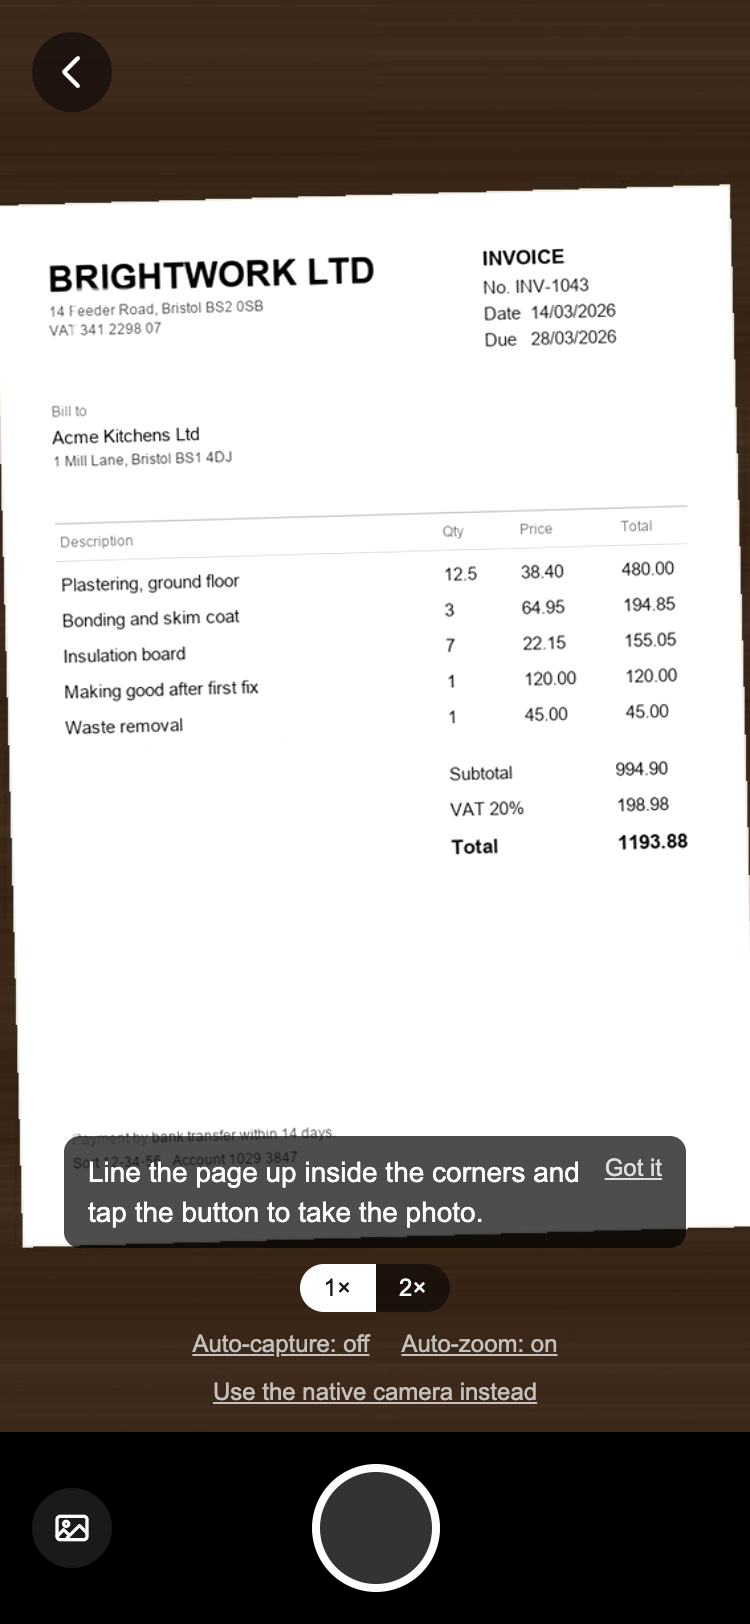
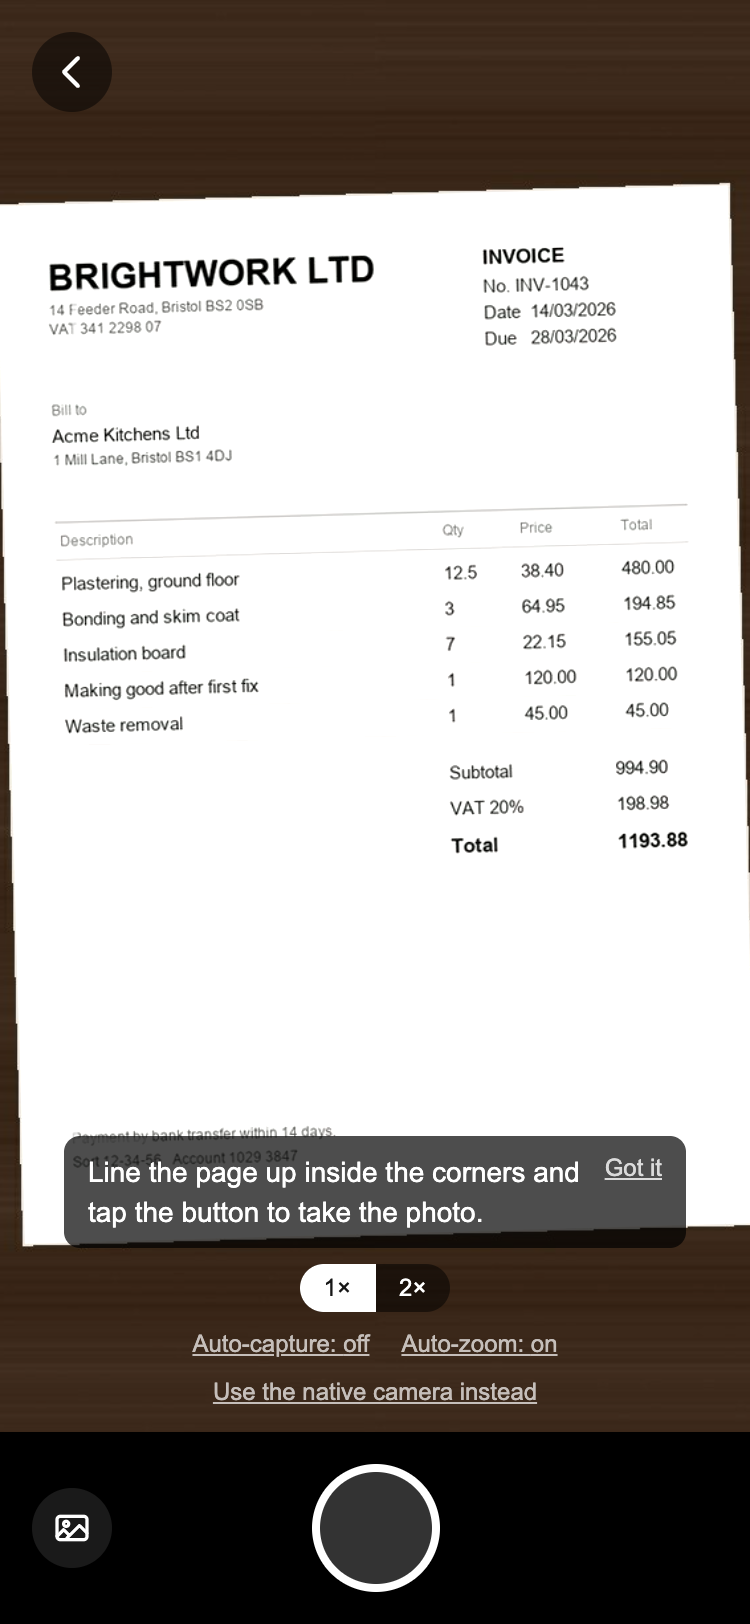
A suite that had been testing a frozen copy of the app
Chasing the last two lows turned up something worse than either of them.

test-check-company starts its own Next server (it needs a Companies House
key and a stand-in API), and its WEB pointed at
.claude/worktrees/check-company/web -- the branch the feature was written
on. It had been testing a frozen copy ever since that branch merged: green
whatever changed in main, and broken outright the day those worktrees are
deleted, which is on the list of things to do. I only found it because a
fix I had just made kept not taking effect. test-quote-requests imported
from a worktree the same way. Both now point at web/.

The two lows themselves:

/check-company told a visitor "Too many checks from this connection in the
last hour" when Companies House was simply down -- a statement about
someone who had just arrived on a shared link and checked nothing, and the
wrong advice, since trying again in a minute is exactly what works. The
route now separates 429 (busy) from 503 (unavailable) and the page says
"Companies House isn't answering just now." The stand-in API grew a
reserved number that always 500s, so a suite can tell the two apart.

And the price guide was kept when the line under it changed, so a verdict
fetched for "Plasterboard 12.5mm" went on sitting above a line now reading
something else. The guide is now held with the line and price it was
fetched for and derived during render -- not cleared in an effect, which
eslint rightly refuses.

diff --git a/web/src/components/check-company/CompanyChecker.tsx b/web/src/components/check-company/CompanyChecker.tsx
@@ -9,9 +9,12 @@ const PRIMARY = "rounded-lg bg-neutral-900 px-4 py-2 text-sm font-medium text-wh
 const SECONDARY = "rounded-lg border px-3 py-2 text-sm font-medium text-neutral-700";
 
 const BUSY = "Too many checks from this connection in the last hour. Try again later, or look the company up at Companies House.";
+// Said when the register itself can't be reached, rather than blaming the
+// person who has just arrived on a shared link and checked nothing.
+const UNAVAILABLE = "Companies House isn't answering just now. Try again in a minute, or look the company up at Companies House.";
 const OFF = "Couldn't reach the register just now. Try again in a minute, or look the company up at Companies House.";
 
-type Answer = { configured?: boolean; items?: CompanyHit[]; report?: CompanyReport; busy?: boolean; found?: boolean };
+type Answer = { configured?: boolean; items?: CompanyHit[]; report?: CompanyReport; busy?: boolean; unavailable?: boolean; found?: boolean };
 
 export default function CompanyChecker() {
   const [configured, setConfigured] = useState<boolean | null>(null);
@@ -37,6 +40,7 @@ export default function CompanyChecker() {
       const body = await ask(`?q=${encodeURIComponent(q)}`);
       setLoading(false);
       if (!body) return setError(OFF);
+      if (body.unavailable) return setError(UNAVAILABLE);
       if (body.busy) return setError(BUSY);
       if (!body.items) {
         if (body.configured !== false) setError(OFF);
@@ -56,6 +60,7 @@ export default function CompanyChecker() {
       const body = await ask(`?number=${encodeURIComponent(number)}`);
       setLoading(false);
       if (!body) return setError(OFF);
+      if (body.unavailable) return setError(UNAVAILABLE);
       if (body.busy) return setError(BUSY);
       if (body.report) {
         setHits(null);
@@ -83,6 +88,7 @@ export default function CompanyChecker() {
         if (!number) return;
         setQuery(number);
         if (body.report) setReport(body.report);
+        else if (body.unavailable) setError(UNAVAILABLE);
         else if (body.busy) setError(BUSY);
         else if (body.found === false) setError("No company on the register has that number.");
       })

diff --git a/web/src/components/PriceFinder.tsx b/web/src/components/PriceFinder.tsx
@@ -24,9 +24,16 @@ export default function PriceFinder({ description, quantity, unit, priced, onClo
 }) {
   const [kind, setKind] = useState<PriceKind>(() => priceKindOf(description, unit ?? ""));
   const [want, setWant] = useState("");
-  const [guide, setGuide] = useState<PriceGuide | null>(null);
+  // Kept with the line it was fetched for. The panel stays open while
+  // that line is edited, so a guide for "Plasterboard 12.5mm" would go on
+  // sitting above a line now reading something else, with a verdict
+  // ("above the usual range") about a price it was never asked about.
+  const [fetched, setFetched] = useState<{ for: string; guide: PriceGuide } | null>(null);
   const [loading, setLoading] = useState(false);
   const [error, setError] = useState<string | null>(null);
+
+  const askedFor = `${description}\u0000${priced ?? ""}`;
+  const guide = fetched?.for === askedFor ? fetched.guide : null;
 
   const places = searchPlaces(description, kind, want);
 
@@ -42,7 +49,7 @@ export default function PriceFinder({ description, quantity, unit, priced, onClo
       });
       const body = (await res.json().catch(() => ({}))) as { guide?: PriceGuide; error?: string };
       if (!res.ok || !body.guide) throw new Error(body.error || "Couldn't work out a price guide.");
-      setGuide(body.guide);
+      setFetched({ for: askedFor, guide: body.guide });
     } catch (err) {
       setError(errorText(err, "Couldn't work out a price guide."));
     } finally {
@@ -94,7 +101,7 @@ export default function PriceFinder({ description, quantity, unit, priced, onClo
             aria-checked={kind === k}
             onClick={() => {
               setKind(k);
-              setGuide(null);
+              setFetched(null);
             }}
             className={`rounded-md py-1.5 text-sm font-medium ${kind === k ? "bg-white text-neutral-900 shadow-sm" : "text-neutral-600"}`}
           >

diff --git a/web/src/app/api/company-check/route.ts b/web/src/app/api/company-check/route.ts
@@ -42,7 +42,14 @@ async function ask<T>(path: string, key: string): Promise<Fetched<T>> {
   return body ? { ok: true, body } : { ok: false, status: 502 };
 }
 
-const busy = (status: number) => NextResponse.json({ configured: true, busy: true }, { status: status === 429 ? 429 : 503 });
+// A rate limit and an unreachable register are different things to be
+// told: "too many checks from this connection" is a statement about the
+// visitor, and when Companies House is simply down it is both false and
+// the wrong advice -- trying again in a minute is exactly what works.
+const busy = (status: number) =>
+  status === 429
+    ? NextResponse.json({ configured: true, busy: true }, { status: 429 })
+    : NextResponse.json({ configured: true, unavailable: true }, { status: 503 });
 
 async function search(q: string, req: Request, key: string) {
   const cacheKey = q.toLowerCase();

diff --git a/notes/backlog.md b/notes/backlog.md
@@ -63,6 +63,9 @@ the same day (23 bugs). Review three's 11 were still open when this file was wri
   for the same hour. `mockdb.mjs` now exports `todayISO()` / `day(n)`.
 - [ ] `torch-bright.mjpeg` and `dark-nocv2.mjpeg` still have no generator (suites outside
   `run-all.sh`).
+- [x] **`test-check-company` was running a stale worktree copy of the app**, not `web/`, so
+  it was green whatever changed in main — and would break the day `.claude/worktrees/` is
+  deleted. `test-quote-requests` imported from a worktree the same way.
 
 ## Tests for fixes that have none yet
 
@@ -125,7 +128,7 @@ the consequence real), and anything either could refute was dropped. Their corre
 are worth reading before acting — one of them stopped a fix that would have made every
 legacy hand-marked-paid invoice reappear as owing on customers' statements.
 
-- [ ] **[high] quote-deposit** — Deleting a deposit invoice leaves its deduction on the balance invoice, so the deposit is never billed at all
+- [~] **[high] quote-deposit** — Deleting a deposit invoice leaves its deduction on the balance invoice. **Fixed** on `feature/deposit-delete-guard`; waiting on migration-034 being run.
   `web/supabase/migration-022-quote-deposits.sql:14`
 - [x] **[high] split-documents** — A PDF page no document claims is silently dropped from every part, so the page never reaches the saved receipt
   `web/src/lib/splitDocuments.ts:81`
@@ -151,13 +154,13 @@ legacy hand-marked-paid invoice reappear as owing on customers' statements.
   `web/src/app/clients/page.tsx:327`
 - [x] **[medium] company-register** — tidyCompanyNumber does not zero-pad a 6- or 7-digit company number, so the lookup 404s and the app says the company is not on the register
   `web/src/lib/companyLookup.ts:131`
-- [ ] **[low] invoice-pdf-print** — The customer statement prints with its share buttons and app chrome on it
+- [x] **[low] invoice-pdf-print** — The customer statement prints with its share buttons and app chrome on it
   `web/src/app/clients/[id]/statement/page.tsx:73`
-- [ ] **[low] duplicate-contacts** — Editing a contact and picking a different company from the register keeps the old company number, which is what later register checks query
+- [x] **[low] duplicate-contacts** — Editing a contact and picking a different company from the register keeps the old company number (same fix as the company-register medium)
   `web/src/app/clients/page.tsx:327`
 - [x] **[low] statement** — Printing a statement puts the app's back-link and its Share/Download/Print buttons on the sheet handed to the customer
   `web/src/app/clients/[id]/statement/page.tsx:73`
-- [ ] **[low] price-guide** — The price guide is kept when the line under it changes, so the verdict is shown against a different item
+- [x] **[low] price-guide** — The price guide is kept when the line under it changes, so the verdict is shown against a different item
   `web/src/components/PriceFinder.tsx:27`
-- [ ] **[low] company-register** — /check-company blames the visitor for a rate limit when Companies House is simply unreachable
+- [x] **[low] company-register** — /check-company blames the visitor for a rate limit when Companies House is simply unreachable
   `web/src/app/api/company-check/route.ts:45`

diff --git a/harness/README.md b/harness/README.md
@@ -55,6 +55,15 @@ const everything = async () =>
   (await page.evaluate(() => [...document.querySelectorAll("input, textarea, select")].map((i) => i.value).join(" ")));
 ```
 
+## A third trap: suites that run somebody else's copy of the app
+
+`test-check-company` starts its own Next server (it needs a Companies House key and a
+stand-in API), and its `WEB` pointed at `.claude/worktrees/check-company/web` — the
+branch the feature was written on. It had been testing a frozen copy ever since that
+branch merged: green whatever changed in `main`, and broken outright the day those
+worktrees are deleted. Fixed 2026-09-21; `test-quote-requests` imported from a worktree
+the same way. If a suite needs a path outside `harness/`, it should be `web/`.
+
 ## Running it
 
 ```
